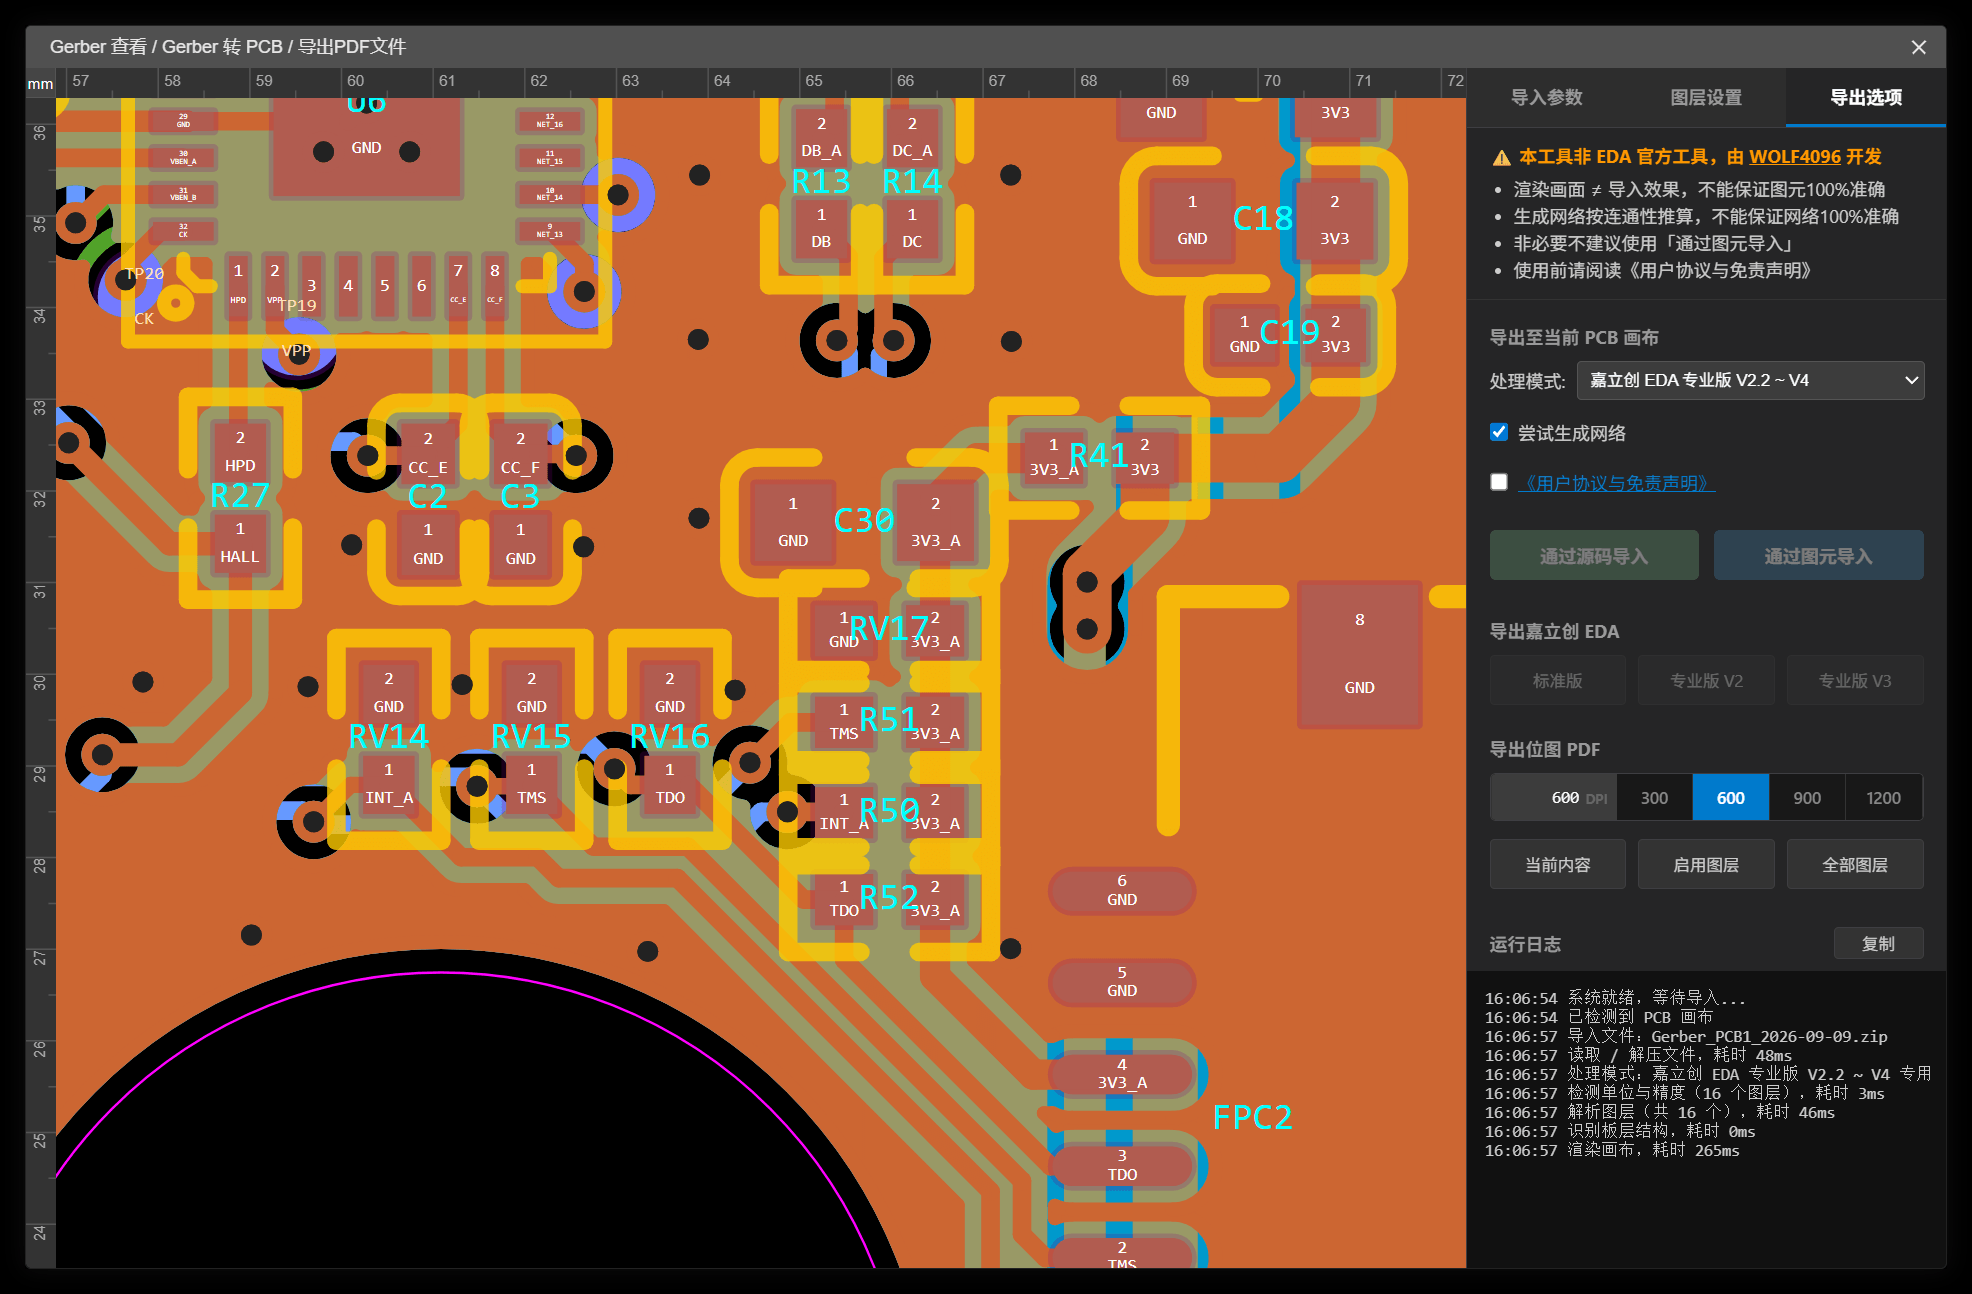
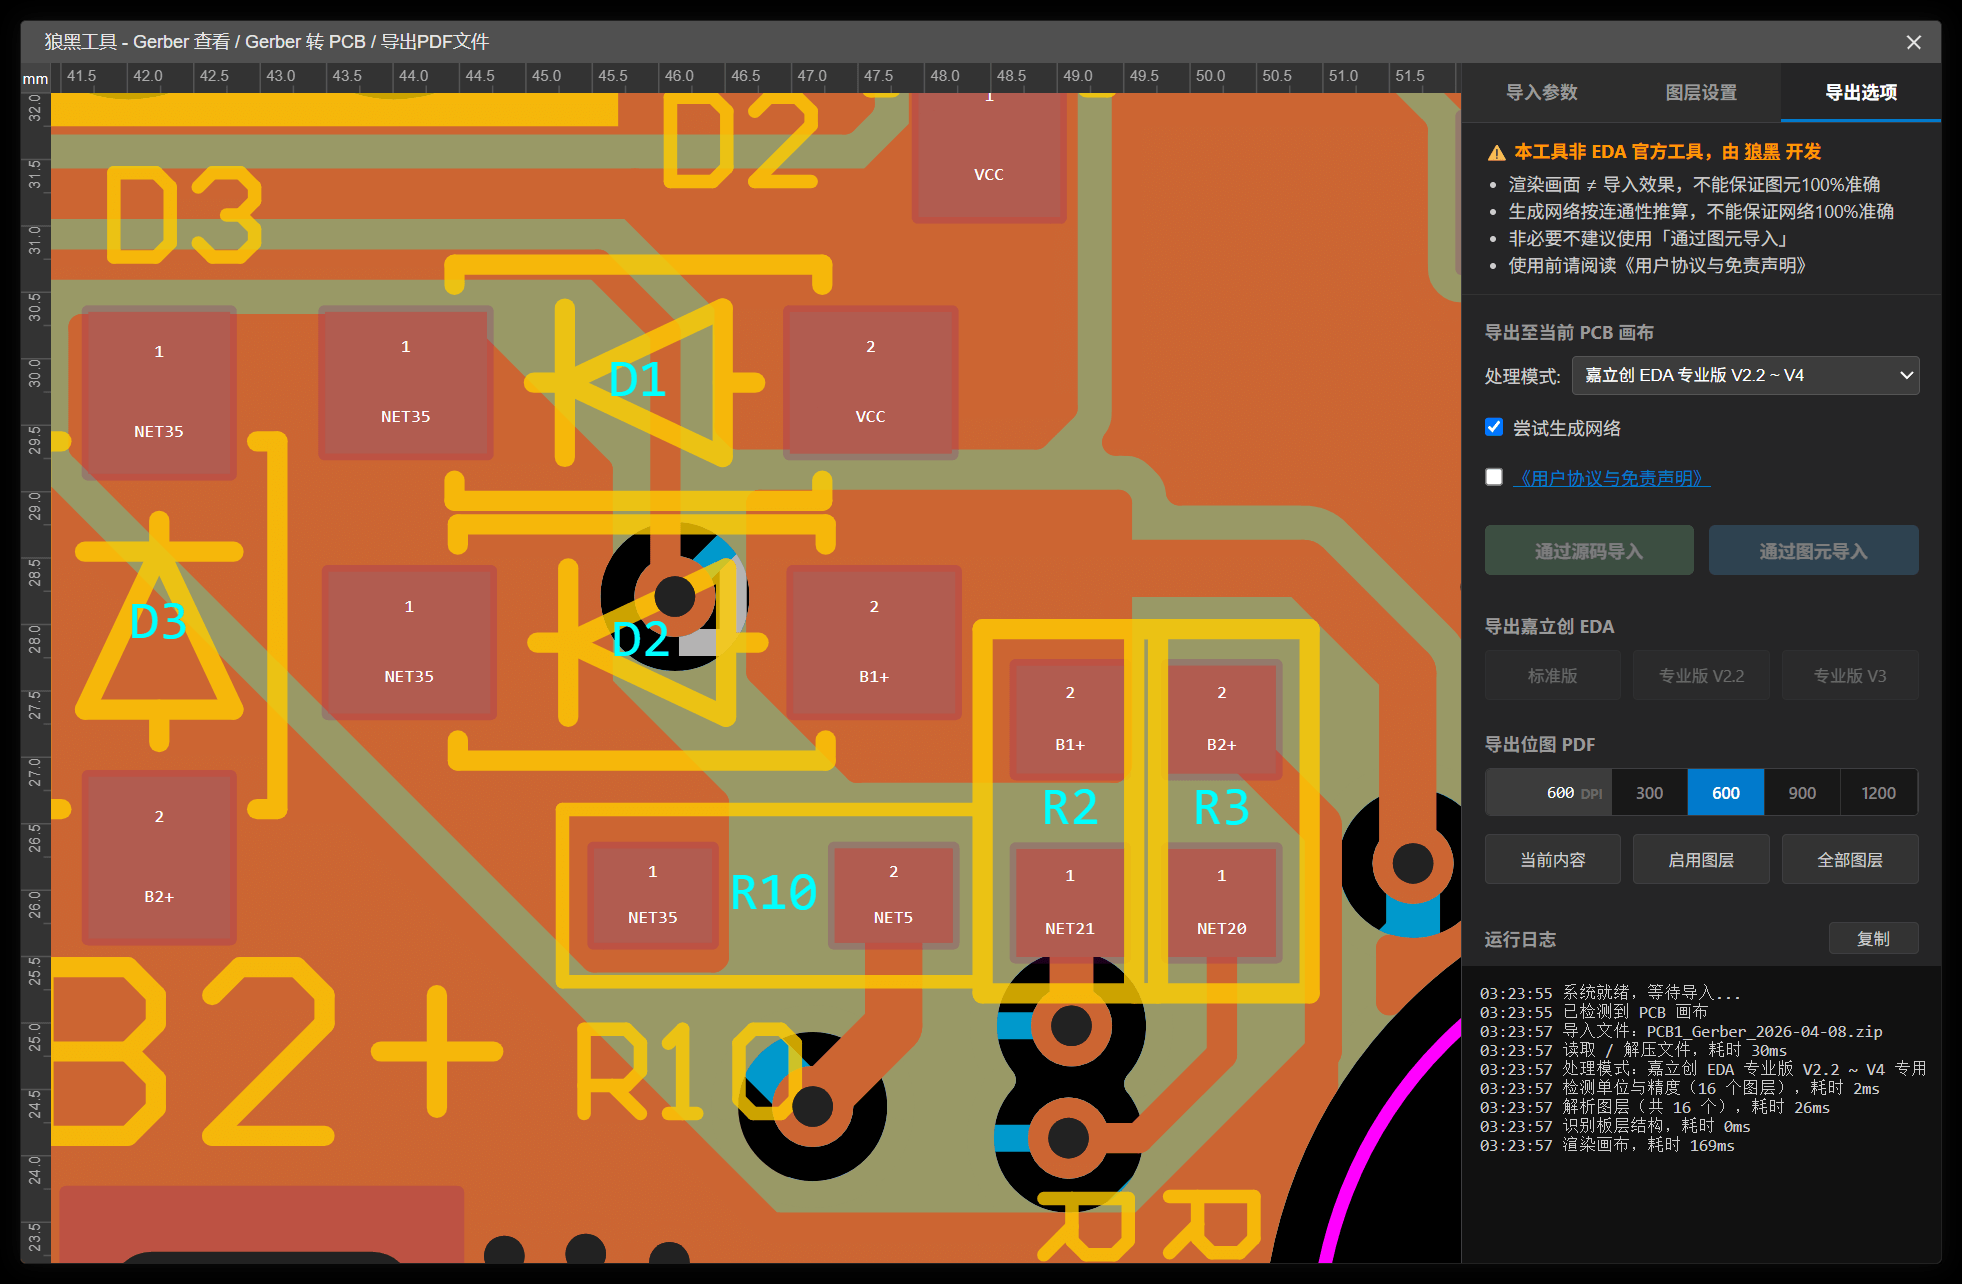
修改“其他”层归属

diff --git a/iframe/js/07-file-io.js b/iframe/js/07-file-io.js
@@ -195,14 +195,18 @@
             const parseResult = parser.parse(fileObj.content, configOverride, parserFeatures);
             if (parseResult.commands.length === 0) return; 
 
-            let matchedId = 57; 
+            // 兜底归属：认不出层类型（= 未指定）时进「文档层」(13)。
+            // 57「其他」在 EDA 里是 Ratline（飞线）层，Gerber 图形写进去会跑到飞线上，
+            // 所以它只保留为下拉框里的手动选项，不再作为默认归属。
+            let matchedId = 13;
             for (let rule of fileNameRules) { if (rule.regex.test(fileObj.name)) { matchedId = rule.layerId; break; } }
             // 处理器可覆盖「按文件名猜」的结果（例如 Gerber X2 用 %TF.FileFunction 直接定层）。
-            // 取「更具体」的那个：处理器给不出意见(57)时沿用内置规则的结果，
+            // 取「更具体」的那个：处理器给不出意见（返回 57「其他」）时沿用内置规则的结果，
             // 以免 *_silkscreen_bottom.gbr 这类命名被泛化规则回退成顶层。
+            // 返回 57 一律视为「没识别出来」，不再作为归属 —— 兜底统一走文档层。
             if (typeof processor.resolveLayerId === 'function') {
                 const overrideId = processor.resolveLayerId(fileObj, parseResult, matchedId);
-                if (typeof overrideId === 'number' && (overrideId !== 57 || matchedId === 57)) {
+                if (typeof overrideId === 'number' && overrideId !== 57) {
                     matchedId = overrideId;
                 }
             }

diff --git a/iframe/js/05-pad-tool.js b/iframe/js/05-pad-tool.js
@@ -41,6 +41,10 @@
         // 所以这个开关**只由标准版导出传入**，画布与专业版导出保持原样。
         extractRawData: (files, opts) => {
             const textAsPoly = !!(opts && opts.textAsPoly);
+            // opts.otherAsDocument：「其他」(57) 的图元并入文档层(13)。
+            // 57 在 EDA 里是 Ratline（飞线）层，Gerber 图形按 57 写进去会显示在飞线上；
+            // 专业版导出传 true，UI 与画布的图层归属/配色仍保留 57 原样。
+            const otherAsDocument = !!(opts && opts.otherAsDocument);
             const rawPads = []; 
             const rawVias = []; 
             const rawTracks = []; 
@@ -417,7 +421,8 @@
             };
 
             files.forEach(file => {
-                const layerId = file.layerId;
+                // 手动选成「其他」的文件，导出时按文档层生成图元（见 otherAsDocument 注释）
+                const layerId = (otherAsDocument && file.layerId === 57) ? 13 : file.layerId;
                 const fileUnit = file.data.units; 
                 // toMM：把「仍是文件单位」的量换算成 mm —— 光圈参数、宏参数、钻孔原文数值都用它。
                 // 注意：cmd.x / cmd.y / cmd.i / cmd.j / cmd.path 里的坐标在解析阶段**已经**换算成 mm，

diff --git a/iframe/js/08-export.js b/iframe/js/08-export.js
@@ -814,7 +814,9 @@
 
         // 2. 提取数据（仅导出勾选的图层）
         stepBegin('提取图层数据');
-        const rawData = PadTool.extractRawData(loadedFiles.filter(f => f.visible));
+        // otherAsDocument：手动选成「其他」(57) 的文件，图元层号按文档层(13)生成。
+        // 57 是 EDA 的 Ratline（飞线）层，Gerber 图形写进去会跑到飞线上。
+        const rawData = PadTool.extractRawData(loadedFiles.filter(f => f.visible), { otherAsDocument: true });
         stepEnd('提取图层数据');
         
         // 3. 聚合数据

diff --git a/docs/开发日志.md b/docs/开发日志.md
@@ -6,6 +6,41 @@
 
 ---
 
+## V3.9.24
+
+### 变更：图层类型未指定（其他）时默认归文档层
+
+背景：`processRawFiles` 里文件名规则全部不命中时兜底 `matchedId = 57`。57 在 `rawLayerData` 里是
+`OTHER / Ratline Layer`（飞线层）——专业版源码按 57 写进去，图形会挂在飞线层上，既不是铜也不是文档，
+用户看到的就是「图形跑到飞线上、找不到」。文档层（13）才是 EDA 里承接「无法归类图形」的层。
+
+改动三处：
+
+1. `07-file-io.js` 的 `processRawFiles`
+   - `let matchedId = 57` → `13`。内置 `fileNameRules` 里没有任何规则映射到 57，所以 13 是真正的兜底。
+   - 处理器覆盖条件 `(overrideId !== 57 || matchedId === 57)` → `overrideId !== 57`：
+     处理器返回 57 一律视为「它也没识别出来」，不再把归属改回飞线层。
+2. `05-pad-tool.js` 的 `extractRawData`
+   - 新增 `opts.otherAsDocument`；为 true 时 `file.layerId === 57` 归一化为 13。
+     焊盘/导线/多边形/填充/图片/文字全部走同一个 `layerId` 变量，一处覆盖。
+   - 画布（`09-ui.js` 的 `ensureFlyingLabels`）与标准版导出不传该开关，行为不变。
+3. `08-export.js` 的 `exportForEasyEDA_Pro`
+   - `extractRawData(..., { otherAsDocument: true })`；源码导入 / 图元导入 / 导出文件三条专业版路径共用此处。
+
+兼容性：
+
+- 标准版 `STD_LAYER_MAP` 里 57 与 13 本来就都映射到 12（Document），无需改动。
+- 下拉框仍保留「其他」（57），UI 显示与配色不变；画布 z-order 里 57=200 / 13=50 也保持原样，
+  所以未识别文件现在会画在更靠下的位置（文档层的正常表现）。
+
+验证：
+
+- 三个改动文件 `node --check` 通过。
+- 实际导入效果需在 EDA 内确认：未命中文件名的 Gerber 应显示「文档层」，导出专业版 V2/V3 的图元层号为 13；
+  手动改回「其他」再导出，图元层号同为 13。
+
+---
+
 ## V3.9.23
 
 ### 修复：EDA 内资源全部加载失败（相对路径在扩展里不成立）

diff --git a/.workbuddy/memory/2026-11-05.md b/.workbuddy/memory/2026-11-05.md
@@ -1,0 +1,21 @@
+# 2026-11-05
+
+## V3.9.24：图层类型「其他/未指定」默认归文档层
+
+需求（用户确认过两点）：
+1. 导入时文件名规则认不出层类型 → 默认归「文档层」(13)，不再落 57「其他」（飞线层）。
+2. 下拉框仍保留「其他」选项；但用户手动选「其他」时，导出也强制按文档层写入。
+
+改动：
+- `iframe/js/07-file-io.js` `processRawFiles`：`let matchedId = 57` → `13`；
+  处理器覆盖条件简化为 `overrideId !== 57`（处理器返回 57 = 没识别出来，不再覆盖归属）。
+- `iframe/js/05-pad-tool.js` `extractRawData`：新增 `opts.otherAsDocument`，
+  为 true 时 `file.layerId === 57` 归一化为 13（所有 raw* 数组共用同一 `layerId` 变量）。
+- `iframe/js/08-export.js` `exportForEasyEDA_Pro`：`extractRawData(..., { otherAsDocument: true })`。
+  标准版 `STD_LAYER_MAP` 里 57 与 13 本来就都映射 12(Document)，无需改；画布调用不传开关，行为不变。
+- 版本 3.9.23 → 3.9.24；`CHANGELOG.md`、`docs/开发日志.md` 已同步。
+- `npm run build` 通过，产出 `build/dist/eext-gerber-import_v3.9.24.eext`（768KB，49 项）。
+
+未做/待确认：
+- 真实 Gerber 端到端导入尚未在 EDA 内实测（只过了 `node --check` + 打包）。
+- 未识别文件现在归 13，画布 z-order 里 13=50（最底），会被其他层盖住 —— 文档层的正常表现。

diff --git a/README.md b/README.md
@@ -9,7 +9,7 @@
 全程离线运行，文件解析、渲染、导出都在本地完成，不上传任何服务器。
 
 **[打开 Github 演示页面](https://wolf4096.github.io/eext-gerber-import-tool/iframe/ImportGerber.html)
-| [演示视频](https://pbt-pub.jlc.com/pbt/bbs/8707762781426302976-20260205_220643.mp4)**
+| [演示视频](https://jlc-prod-pbt-pub.oss-cn-shenzhen.aliyuncs.com/pbt/bbs/8806409112543649792-Gerber%E8%BD%ACPCB%E6%BC%94%E7%A4%BA%E8%A7%86%E9%A2%91.mp4)**
 ![演示](images/Test.png)
 
 ---

diff --git a/CHANGELOG.md b/CHANGELOG.md
@@ -1,5 +1,10 @@
 # 更新日志
 
+## V3.9.24
+
+- 优化：图层类型认不出来时默认归到文档层，不再落到飞线层，导入后图形不会跑到飞线上
+- 优化：手动把文件选成「其他」时，导出同样按文档层写入，避免图形出现在飞线层
+
 ## V3.9.23
 
 - 修复：在 EDA 里打开主界面或「关于」页时资源全部加载失败、页面白屏
